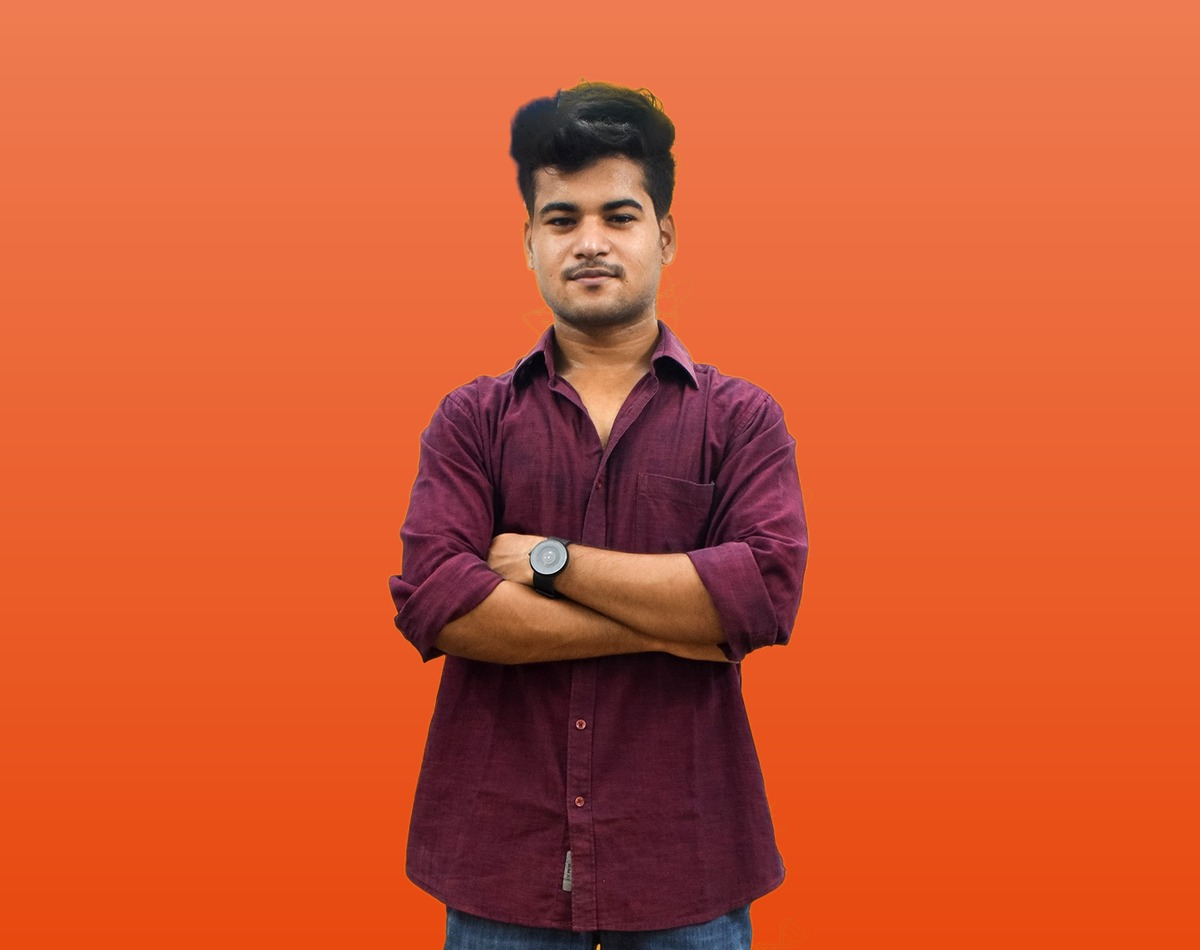
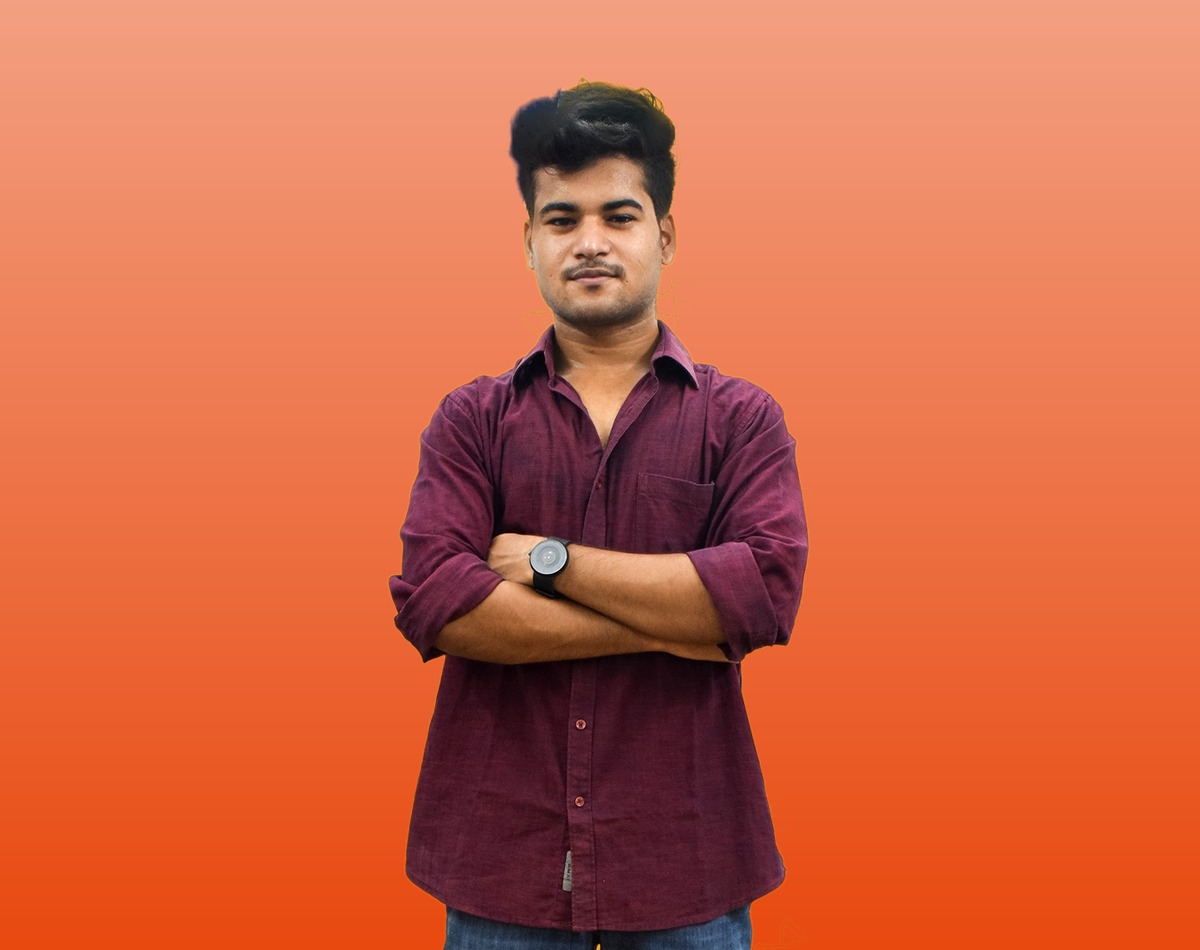
The thick colour border has been removed, and the gradient has been enhanced to be more dramatic.
- Upon investigating the repeated reports, it appears the timeline banner image underneath contained baked-in chevron photos that caused the coloured border effect. These baked photos have now been removed, leaving only the rotating shapes.
- The gradient inside each shape has been intensified, featuring a bright light tint at the top flowing down into the full colour across all four scholar journeys.
- I have checked the preview and captured close-ups at two shape boundaries; the edges appear clean with clear gaps, no colour echo is visible, and the rotation cycles every 2.5 seconds as expected.
- Admin credentials and handoff details are provided for further access, with donations remaining simulated until Razorpay keys are shared.

Please open the preview to review the updated shapes. Can you kindly test and confirm if everything works as expected, or if further adjustments are required?

Next Action Items:
- **More Scholar Sets**: Send the next scholar's five journey photos to add a fifth rotating set.
- **Real Center Photos**: Make Kolkata and Pune Drive folders public or upload photos.
- **80G Registration Details**: Share your 80G number and validity dates for legal footer completion.
- **Live Payments**: Add Razorpay keys to enable real payment processing.

Emergent-Commit-Key: 8705bca25784205fca368b6e76e61ecf865f8934b5623b71fa4257c280d5d77d

diff --git a/.image-sources/reprocess_all.py b/.image-sources/reprocess_all.py
@@ -14,7 +14,7 @@ def gradient_arr(size, hexcolor):
     # smooth vertical gradient: light tint of panel colour at top -> exact panel colour at bottom
     w, h = size
     base = hex2rgb(hexcolor)
-    top = base + (255 - base) * 0.28
+    top = base + (255 - base) * 0.48
     yy = (np.arange(h, dtype=float) / max(h - 1, 1))[:, None, None]
     img = top * (1 - yy) + base * yy
     return np.ascontiguousarray(np.broadcast_to(img, (h, w, 3))).astype(np.uint8)

diff --git a/memory/PRD.md b/memory/PRD.md
@@ -133,3 +133,4 @@ Brief (from PDF): A rebooted website for Responsible Charity (RC) Society, a reg
 - Scholar strip (Oct 17): removed the dark shadow rim from ALL shapes — reprocessed all 20 chevron photos (tl + scholar-b/c/d) so backgrounds keep the soft centre glow but fade to the EXACT panel colour at edges (edge factor 1.0, was 0.62). Same cutouts/compositions as before. Full pipeline saved at /app/.image-sources/reprocess_all.py; all 20 original source photos persisted in /app/.image-sources/set{a,b,c,d}/ (survive pod restarts, unlike /tmp). Verified in browser
 - Scholar strip (Oct 17, final edge fix): tightened the background glow (pure glow within 30% radius, exact panel colour from 75% outward) so no lighter/darker colour band approaches the chevron outline — shapes read as one clean flat colour at the edges. Applied to all 20 photos via /app/.image-sources/reprocess_all.py. Verified with close-up browser captures of the chevron edges
 - Scholar strip (Oct 17): backgrounds now use a smooth vertical gradient (28% light tint of panel colour at top -> exact panel colour at bottom) for all 20 photos — visible gradient inside each shape with no colour band at the outline. Gap between chevron shapes increased 0.8% -> 2% in Home.jsx ScholarStrip. Verified in browser
+- Scholar strip ROOT CAUSE found (Oct 17): the recurring "colour border/shadow lines" on shapes were the BAKED chevron panels inside hero-timeline.jpg peeking out from behind the overlay strip (slight misalignment). Fixed by painting the banner's baked photo area (top ~256 rows) cream — original saved at /app/.image-sources/hero-timeline-orig.jpg. Now only the overlay strip renders photos; alignment can never echo. Also made the photo gradient more dramatic (48% light tint at top -> panel colour at bottom). Verified with edge close-ups
